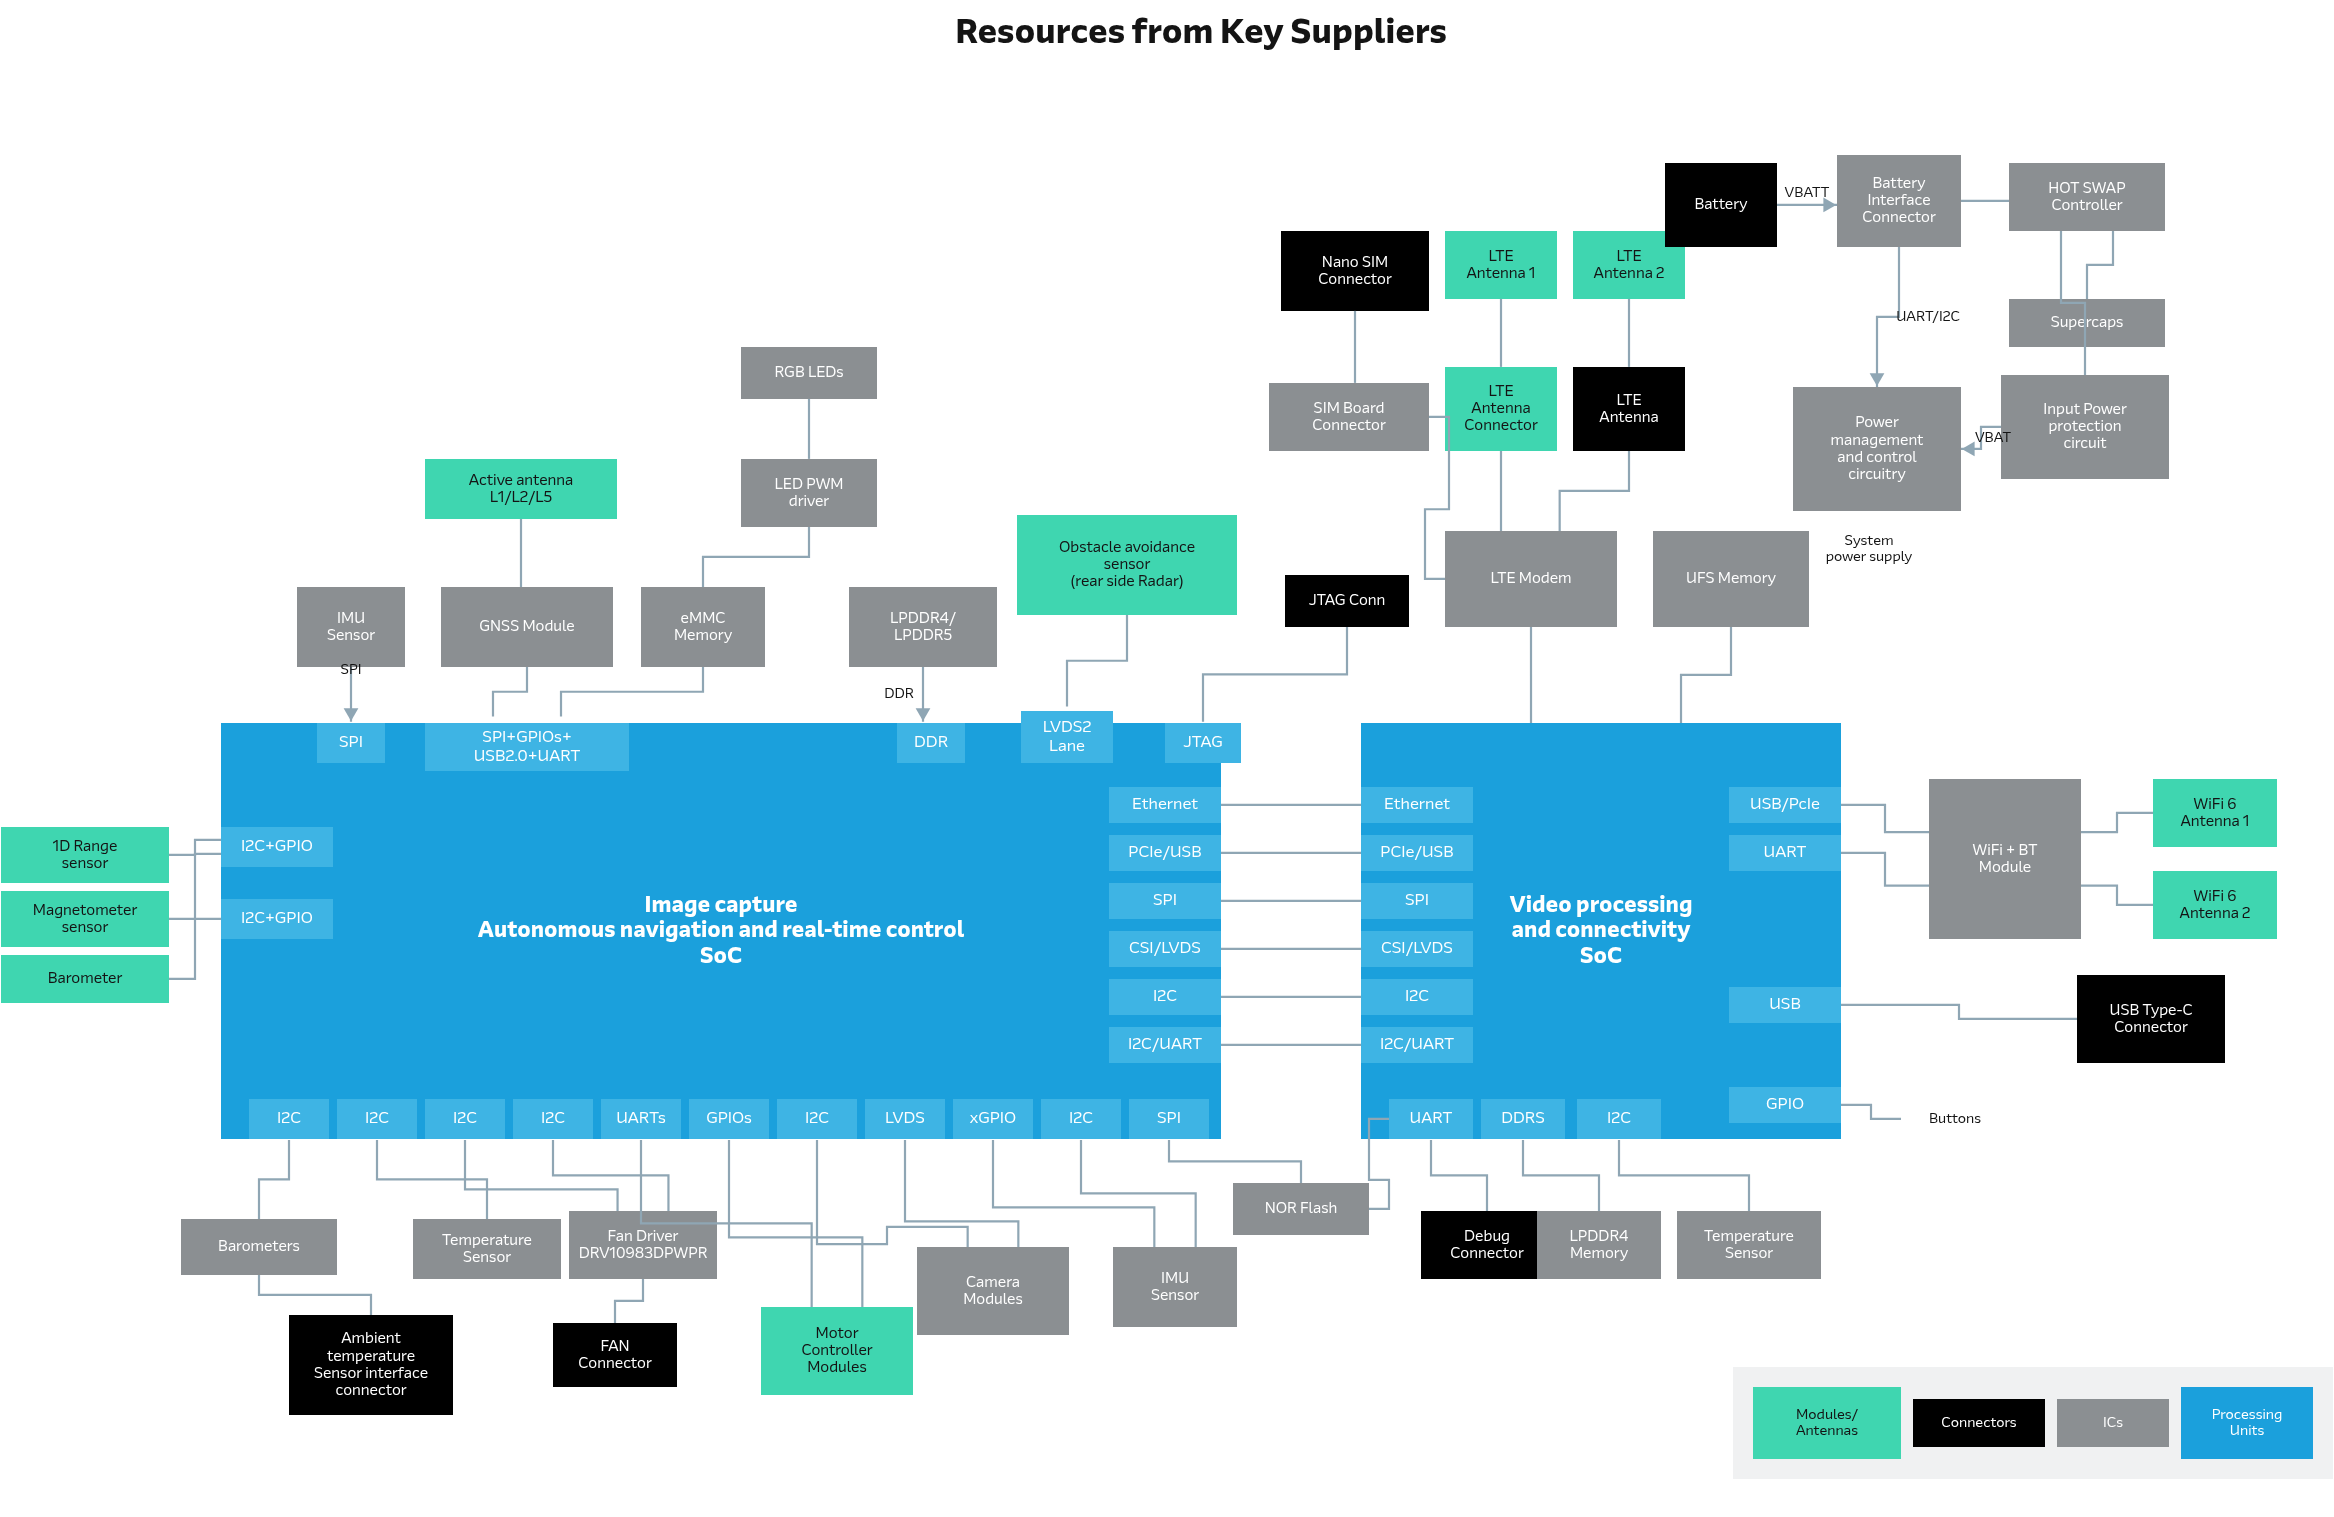
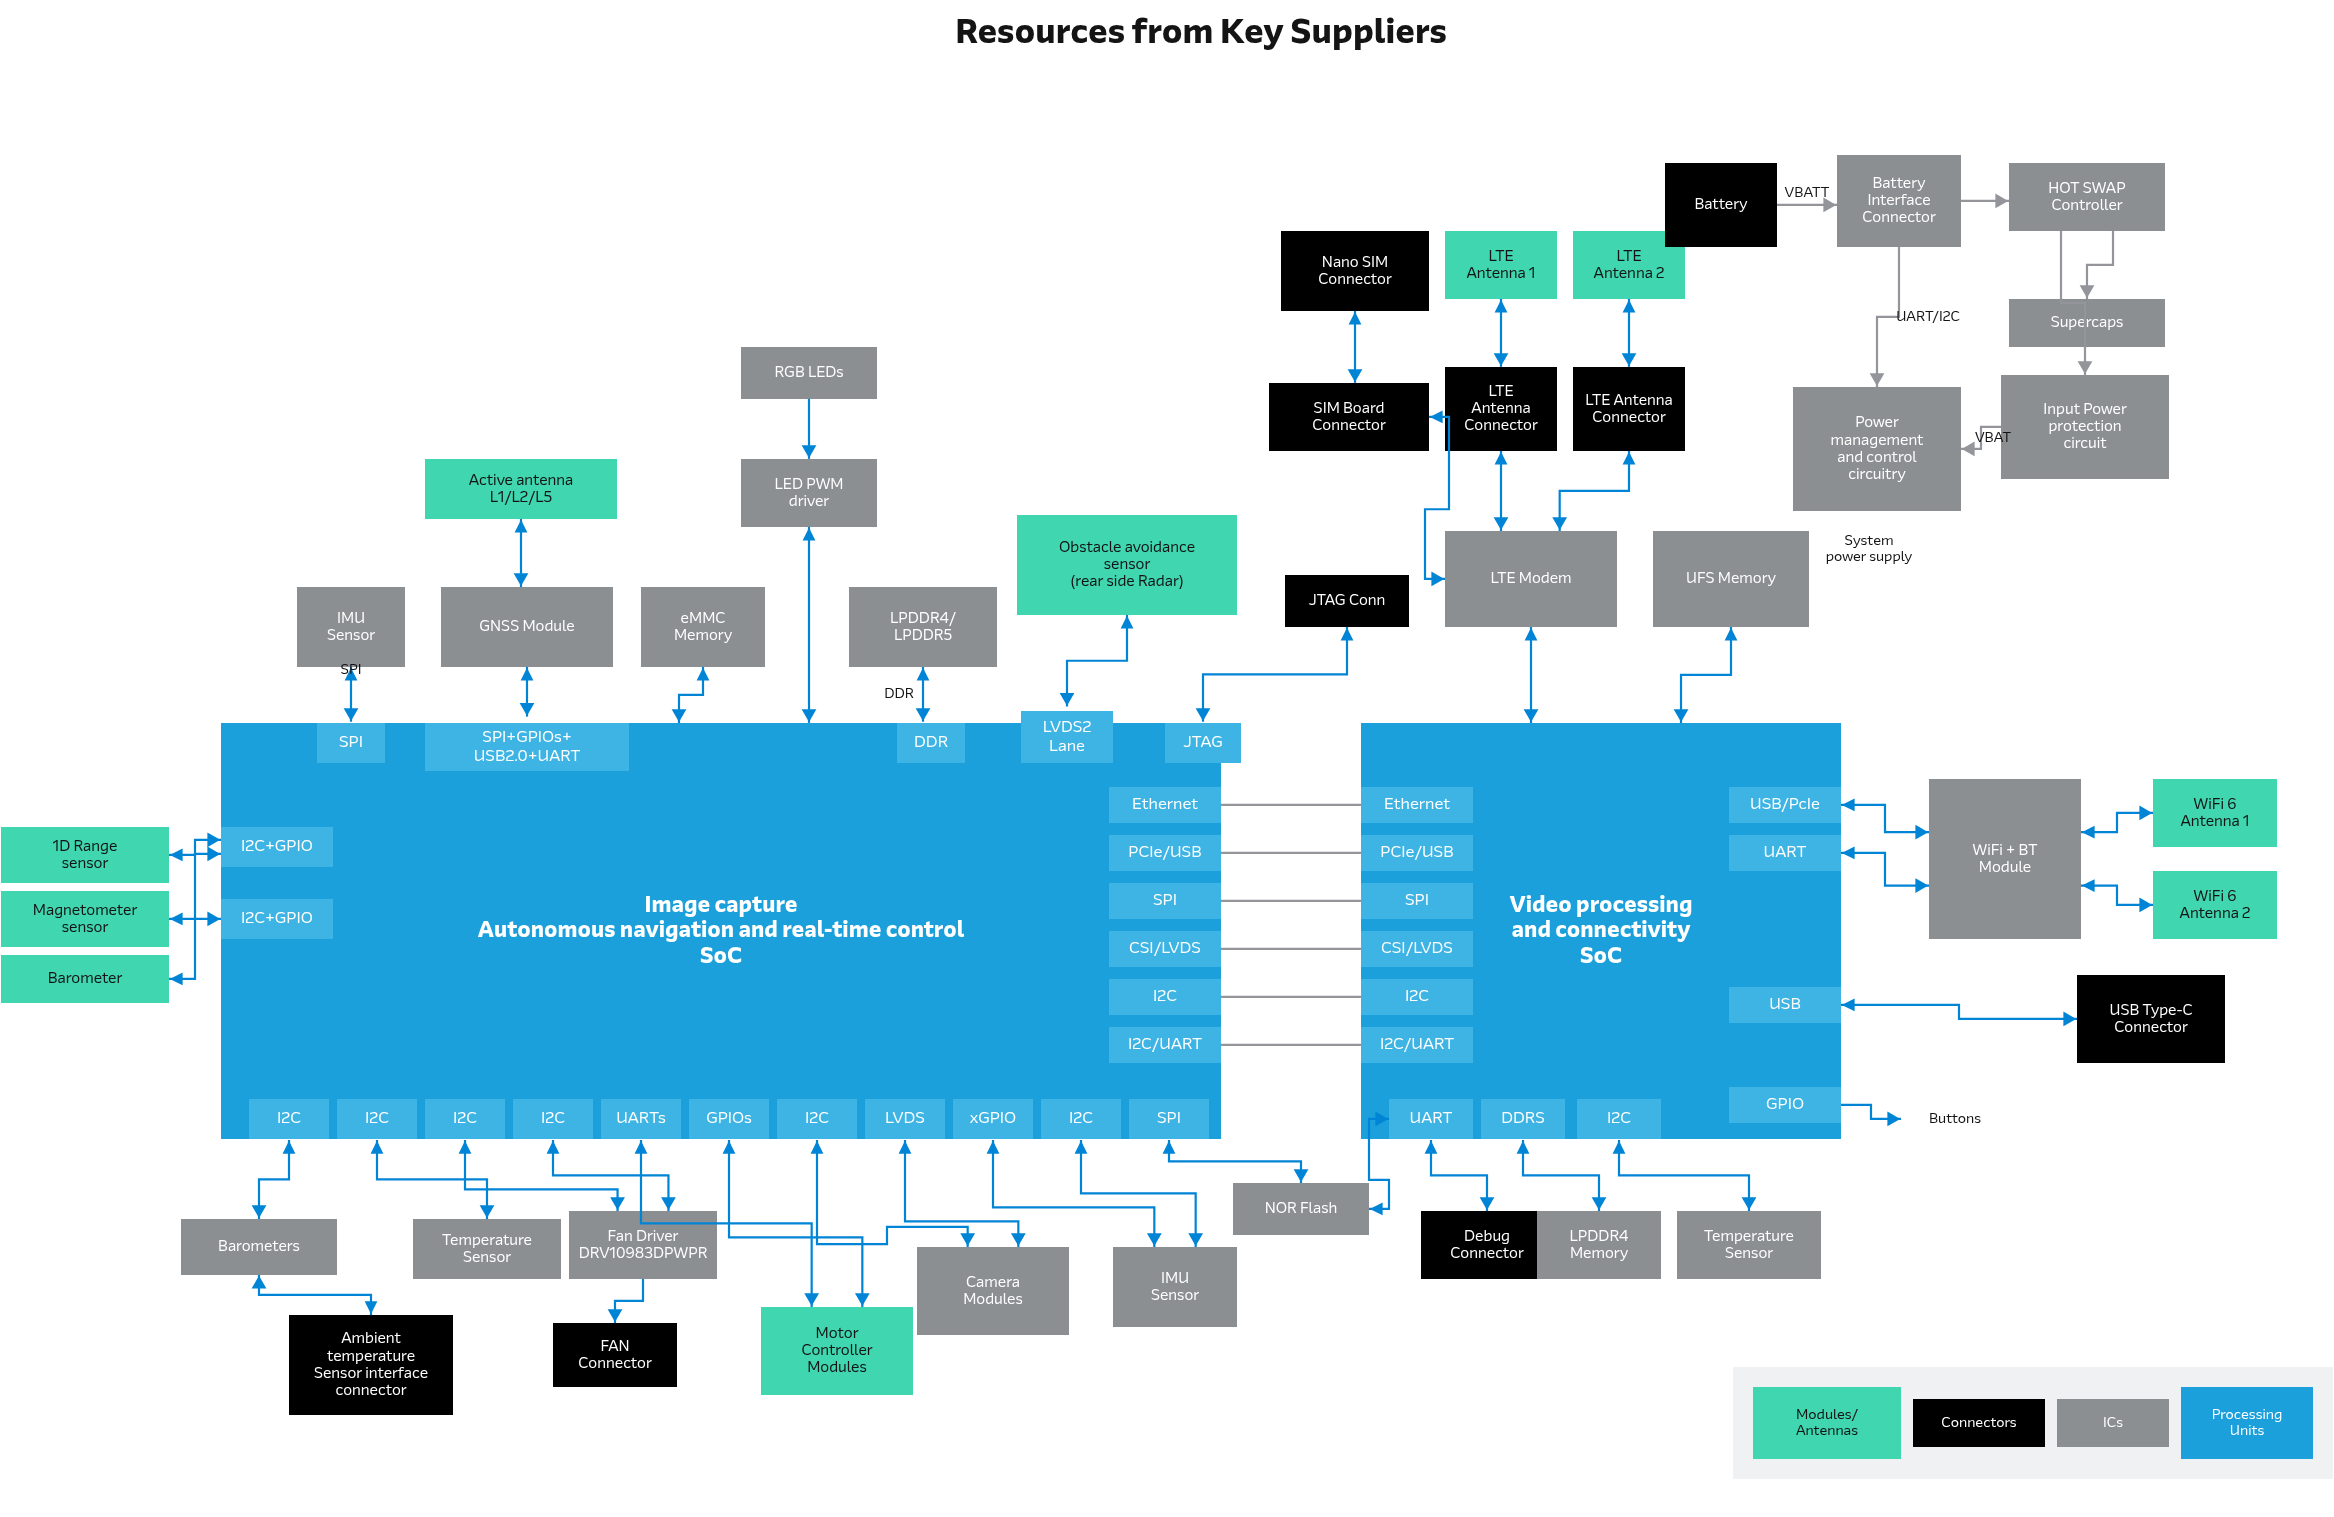
Two-way arrowheads, and fix diagram 4's wiring against the source
**Two-way arrows.** A wire can now carry an arrowhead at both ends: `twoWay` in
the data, a Direction control on the wire dock, and it is applied to newly drawn
wires like the rest of the style. The from-end head uses GoJS's mirrored
"Backward" family — the same figure at both ends points both heads the same way,
which is exactly what the first attempt did.

**Diagram 4.** Read off the source's own drawing operators rather than by eye:

- 50 of its 55 wires carried `wire: true`, which hides the arrowhead
  altogether. That is why the drawing had none at all. Now 49 have a head and
  40 are two-way, against 36 two-way in the source.
- Two colours, as the source has them: blue for data and interface, grey for
  the power chain.
- The six bus lines between matching pads on the two SoCs are plain grey with
  no heads at either end — the pads are already named, so a direction would say
  nothing. They are exactly the six grey chains the extraction found with no
  arrowheads, which I had lumped in with the rest on the first pass.
- Arrowhead size measured on page 30 itself: 4.9 x 6.7 pt, which is 0.8 for a
  Triangle — the value the diagram already had. Page 8's are 10.4 x 12.0, and
  carrying that number across is what briefly made these far too big.
- Connectors are black per the source's own legend; the SIM board and both LTE
  antenna connectors were in the module/antenna green, reading as three more
  antennas. One was also labelled "LTE Antenna" rather than "LTE Antenna
[…]

diff --git a/diagram-poc/frontend/src/app/features/editor/components/wire-dock/wire-dock.component.ts b/diagram-poc/frontend/src/app/features/editor/components/wire-dock/wire-dock.component.ts
@@ -18,12 +18,14 @@ export interface WireStyle {
   arrow: 'Standard' | 'Triangle' | 'none';
   arrowScale: number;
   corner: 'round' | 'square';
+  /** An arrowhead at both ends: the connection goes both ways. */
+  twoWay: boolean;
 }
 
 /** What a wire looks like before anyone has touched the dock. */
 export const DEFAULT_WIRE_STYLE: WireStyle = {
   color: '#22d3ee', width: 2, style: 'flow', routing: 'manhattan',
-  arrow: 'Standard', arrowScale: 1, corner: 'round',
+  arrow: 'Standard', arrowScale: 1, corner: 'round', twoWay: false,
 };
 
 /**
@@ -69,6 +71,7 @@ export class WireDockComponent {
   wireArrow: WireStyle['arrow'] = 'Standard';
   wireArrowScale = 1;
   wireCorner: WireStyle['corner'] = 'round';
+  wireTwoWay = false;
   wirePop: 'color' | 'style' | null = null;
 
   private static readonly KEY = 'diagram.wireDefaults';
@@ -101,6 +104,7 @@ export class WireDockComponent {
   }
   setWireArrowScale(s: number): void { this.wireArrowScale = s; this.remember(); this.emit('arrowScale', s); }
   setWireCorner(c: WireStyle['corner']): void { this.wireCorner = c; this.remember(); this.emit('corner', c === 'square' ? 0 : 8); }
+  setWireTwoWay(v: boolean): void { this.wireTwoWay = v; this.remember(); this.emit('twoWay', v); }
 
   toggleWirePop(which: 'color' | 'style'): void { this.wirePop = this.wirePop === which ? null : which; }
 
@@ -114,6 +118,7 @@ export class WireDockComponent {
     this.wireArrow = d['wire'] ? 'none' : (d['arrow'] === 'Triangle' ? 'Triangle' : 'Standard');
     this.wireArrowScale = typeof d['arrowScale'] === 'number' ? d['arrowScale'] : 1;
     this.wireCorner = d['corner'] === 0 ? 'square' : 'round';
+    this.wireTwoWay = !!d['twoWay'];
   }
 
   private emit(prop: string, value: unknown): void { this.apply.emit({ prop, value }); }
@@ -122,6 +127,7 @@ export class WireDockComponent {
     return {
       color: this.wireColor, width: this.wireWidth, style: this.wireStyle, routing: this.wireRouter,
       arrow: this.wireArrow, arrowScale: this.wireArrowScale, corner: this.wireCorner,
+      twoWay: this.wireTwoWay,
     };
   }
 
@@ -140,6 +146,6 @@ export class WireDockComponent {
     this.remembered = d;
     this.wireColor = d.color; this.wireWidth = d.width; this.wireStyle = d.style;
     this.wireRouter = d.routing; this.wireArrow = d.arrow; this.wireArrowScale = d.arrowScale;
-    this.wireCorner = d.corner;
+    this.wireCorner = d.corner; this.wireTwoWay = !!d.twoWay;
   }
 }

diff --git a/diagram-poc/frontend/src/app/features/gojs-editor/gojs-templates.ts b/diagram-poc/frontend/src/app/features/gojs-editor/gojs-templates.ts
@@ -22,6 +22,12 @@ export interface TemplateHooks {
  * Install every node, group and link template on a diagram, and the tool
  * customisations that go with them.
  */
+/** The mirrored twin of an arrowhead, for the *from* end of a two-way wire. */
+function backwardArrow(name: string): string {
+  const n = name || 'Standard';
+  return n === 'Standard' ? 'Backward' : n.startsWith('Backward') ? n : 'Backward' + n;
+}
+
 export function buildTemplates(diagram: go.Diagram, $: typeof go.GraphObject.make, hooks: TemplateHooks): void {
     /**
      * A connection rail down a whole edge, not a dot in the middle of it.
@@ -374,6 +380,18 @@ export function buildTemplates(diagram: go.Diagram, $: typeof go.GraphObject.mak
         // constant. Without these an imported diagram gets this template's
         // arrowhead at whatever size the stroke happens to make it.
         new go.Binding('toArrow', 'arrow'),
+        new go.Binding('scale', 'arrowScale')),
+      // A second arrowhead at the *from* end, for a two-way connection. A bus
+      // is bidirectional far more often than not — the source artwork draws 35
+      // of its wires with 63 arrowheads between them — and with only one
+      // arrowhead the reader is told a direction that is not true.
+      $(go.Shape, { fromArrow: 'Backward', fill: '#94a3b8', stroke: null, visible: false },
+        new go.Binding('fill', 'color'),
+        new go.Binding('visible', 'twoWay', (t) => !!t),
+        // GoJS orients a `fromArrow` along the link, so the same figure at both
+        // ends gives two heads pointing the same way. The mirrored "Backward"
+        // family is what makes it point outwards.
+        new go.Binding('fromArrow', 'arrow', backwardArrow),
         new go.Binding('scale', 'arrowScale')),
       $(go.Panel, 'Auto',
         { segmentIndex: NaN, segmentFraction: 0.5, visible: false },

diff --git a/diagram-poc/frontend/src/app/features/editor/components/wire-dock/wire-dock.component.html b/diagram-poc/frontend/src/app/features/editor/components/wire-dock/wire-dock.component.html
@@ -90,6 +90,16 @@
                   </div>
                 </div>
                 @if (wireArrow !== 'none') {
+                  <div class="pop-section"><span class="pop-title">Direction</span>
+                    <div class="dock-group">
+                      <button class="dock-btn" matTooltip="One way" [class.active]="!wireTwoWay" (click)="setWireTwoWay(false)">
+                        <svg viewBox="0 0 24 16" width="20" height="13"><path d="M 2 8 H 15" stroke="currentColor" stroke-width="2" fill="none"/><path d="M 14 4 L 22 8 L 14 12 Z" fill="currentColor"/></svg></button>
+                      <button class="dock-btn" matTooltip="Two way" [class.active]="wireTwoWay" (click)="setWireTwoWay(true)">
+                        <svg viewBox="0 0 24 16" width="20" height="13"><path d="M 9 8 H 15" stroke="currentColor" stroke-width="2" fill="none"/><path d="M 14 4 L 22 8 L 14 12 Z" fill="currentColor"/><path d="M 10 4 L 2 8 L 10 12 Z" fill="currentColor"/></svg></button>
+                    </div>
+                  </div>
+                }
+                @if (wireArrow !== 'none') {
                   <div class="pop-section"><span class="pop-title">Arrow size</span>
                     <div class="dock-group">
                       <button class="dock-btn" matTooltip="Small" [class.active]="wireArrowScale <= 0.8" (click)="setWireArrowScale(0.7)">S</button>

diff --git a/diagram-poc/samples/drone/render-harness.html b/diagram-poc/samples/drone/render-harness.html
@@ -177,6 +177,13 @@ window.buildDiagram = function(modelJson, geo) {
       new go.Binding('fill','color'), new go.Binding('visible','wire',(w)=>!w),
       new go.Binding('toArrow','arrow'),
       new go.Binding('scale','arrowScale')),
+    // A second arrowhead at the from end, for a two-way connection.
+    $(go.Shape,{ fromArrow:'BackwardTriangle', fill:'#94a3b8', stroke:null, scale:1, visible:false },
+      new go.Binding('fill','color'),
+      new go.Binding('visible','twoWay',(t)=>!!t),
+      // Mirrored, or both heads point the same way.
+      new go.Binding('fromArrow','arrow',(n)=> !n||n==='Standard'?'Backward':(String(n).startsWith('Backward')?n:'Backward'+n)),
+      new go.Binding('scale','arrowScale')),
     $(go.Panel,'Auto',{ segmentIndex:NaN, segmentFraction:0.5, visible:false },
       new go.Binding('visible','text',(t)=>!!t),
       new go.Binding('segmentFraction','textFraction'),

diff --git a/diagram-poc/frontend/src/app/features/gojs-editor/gojs-editor.component.ts b/diagram-poc/frontend/src/app/features/gojs-editor/gojs-editor.component.ts
@@ -1105,6 +1105,7 @@ export class GojsEditorComponent implements OnInit, AfterViewInit, OnDestroy {
       m.set(link.data, 'arrow', d.arrow === 'none' ? 'Standard' : d.arrow);
       m.set(link.data, 'arrowScale', d.arrowScale);
       m.set(link.data, 'corner', wire || d.corner === 'square' ? 0 : 8);
+      m.set(link.data, 'twoWay', !wire && d.twoWay);
     }, 'style link');
     if (wire) this.straightenWire(link);
   }
